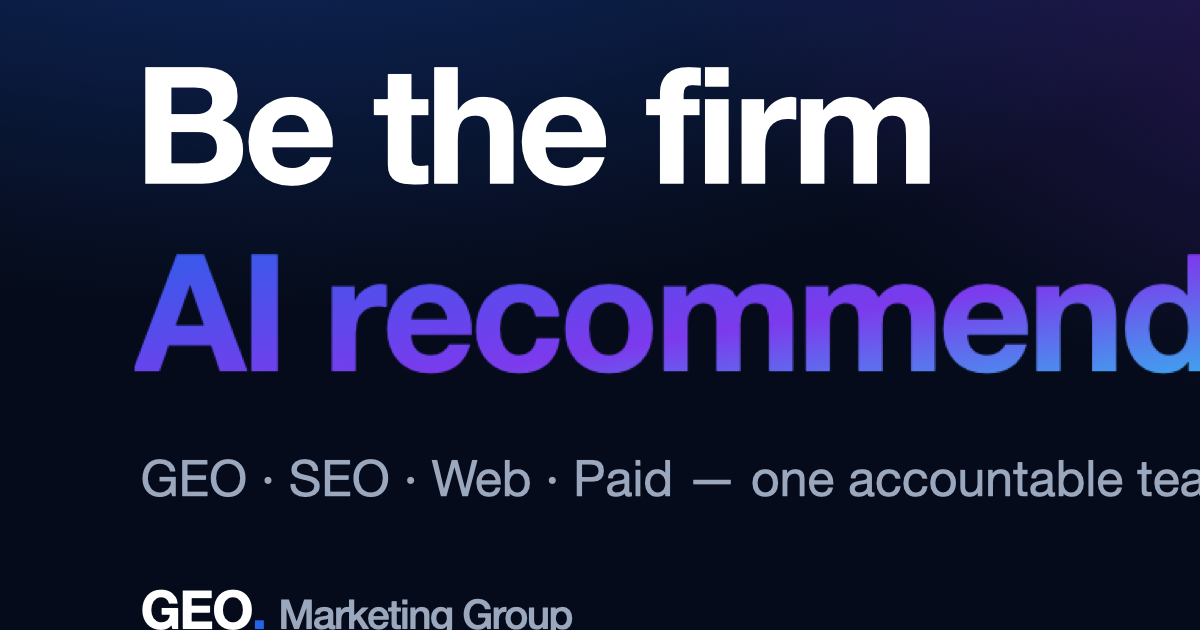
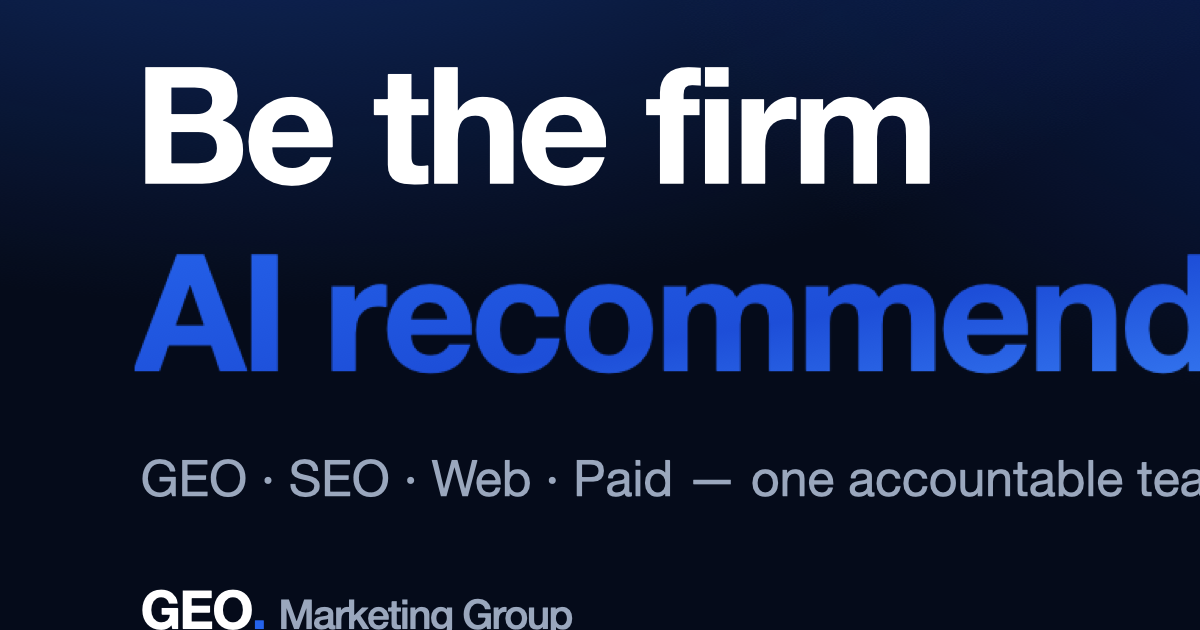
feat(brand): align palette to brand sheet — navy/blue/gray, retire violet/cyan
- tailwind tokens: violet→deep blue (#1D4ED8), cyan→light blue (#60A5FA),
  gradient-brand + gradient-mesh + glow now all-blue family
- motion.css, global.css vars, AnswerDemo, HeroCanvas, Logo mark, favicon,
  og-default → blue family; regenerated favicons + OG
- no violet/cyan remaining in build output

Changed region(s): [[0.2775, 0.3921, 1.0, 0.6032], [0.0925, 0.3921, 0.2467, 0.6032]]

diff --git a/website/src/styles/motion.css b/website/src/styles/motion.css
@@ -37,7 +37,7 @@
   width: 100%;
   transform-origin: 0 50%;
   transform: scaleX(var(--scroll, 0));
-  background: linear-gradient(90deg, #2563eb, #7c3aed 60%, #22d3ee);
+  background: linear-gradient(90deg, #2563eb, #1d4ed8 60%, #3b82f6);
   z-index: 60;
   pointer-events: none;
 }
@@ -55,7 +55,7 @@
 
 /* ---- Animated gradient text -------------------------------- */
 .text-gradient-animated {
-  background: linear-gradient(110deg, #2563eb, #7c3aed 30%, #22d3ee 55%, #7c3aed 75%, #2563eb);
+  background: linear-gradient(110deg, #2563eb, #1d4ed8 30%, #3b82f6 55%, #1d4ed8 75%, #2563eb);
   background-size: 250% 100%;
   -webkit-background-clip: text;
   background-clip: text;
@@ -93,7 +93,7 @@
 .aurora::after {
   width: 40vw; height: 40vw;
   right: -4vw; top: 2vw;
-  background: radial-gradient(circle at 60% 40%, rgba(124, 58, 237, 0.5), transparent 60%);
+  background: radial-gradient(circle at 60% 40%, rgba(30, 64, 175, 0.5), transparent 60%);
   animation: gm-float-b 22s ease-in-out infinite;
 }
 
@@ -160,7 +160,7 @@
   inset: 0;
   border-radius: inherit;
   padding: 1px;
-  background: linear-gradient(120deg, #2563eb, #7c3aed 60%, #22d3ee);
+  background: linear-gradient(120deg, #2563eb, #1d4ed8 60%, #3b82f6);
   -webkit-mask: linear-gradient(#000 0 0) content-box, linear-gradient(#000 0 0);
   -webkit-mask-composite: xor;
   mask-composite: exclude;

diff --git a/website/src/styles/global.css b/website/src/styles/global.css
@@ -9,8 +9,8 @@
     --color-navy: 11 19 43;          /* #0B132B */
     --color-navy-deep: 5 11 26;      /* #050B1A */
     --color-electric: 37 99 235;     /* #2563EB */
-    --color-violet: 124 58 237;      /* #7C3AED */
-    --color-cyan: 34 211 238;        /* #22D3EE */
+    --color-violet: 29 78 216;       /* #1D4ED8 (brand deep blue) */
+    --color-cyan: 96 165 250;        /* #60A5FA (brand light blue) */
     --color-fog: 229 231 235;        /* #E5E7EB */
     --color-cream: 255 255 255;      /* #FFFFFF (legacy alias) */
     --color-ink: 11 19 43;
